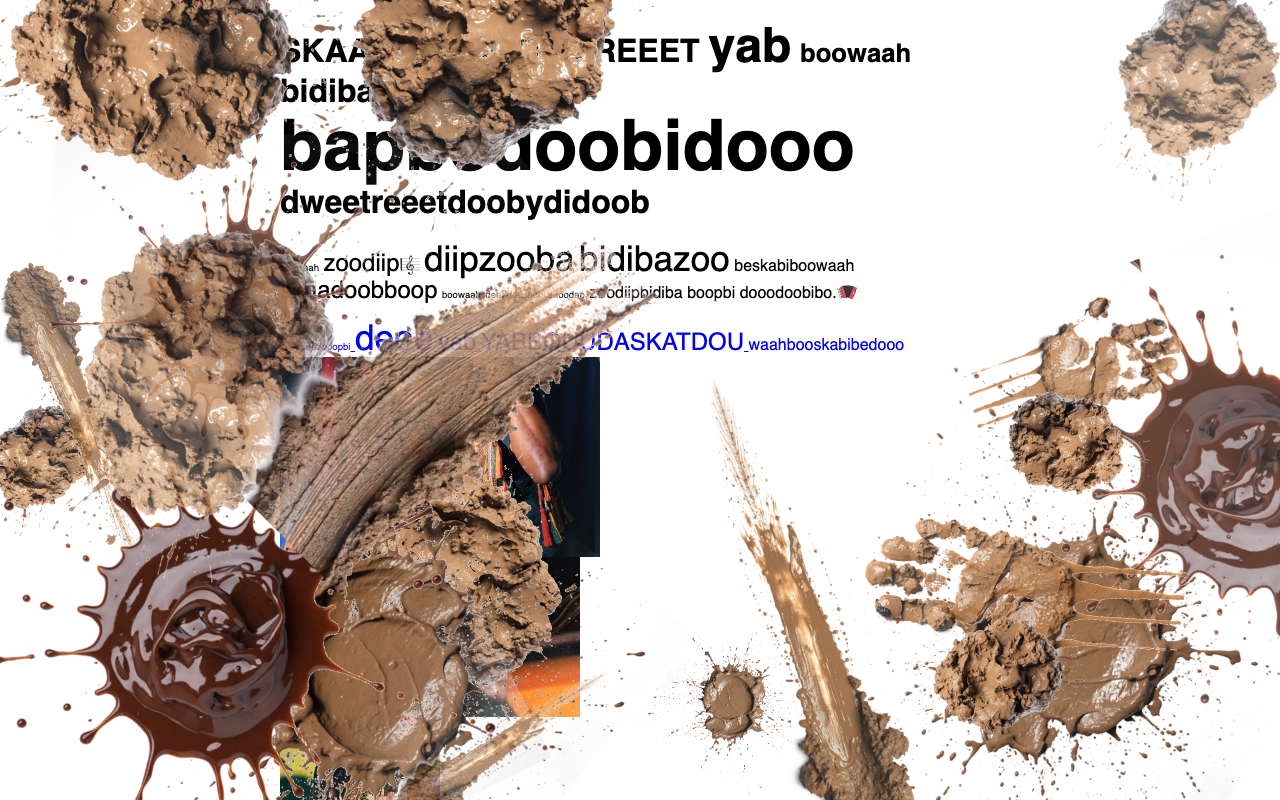
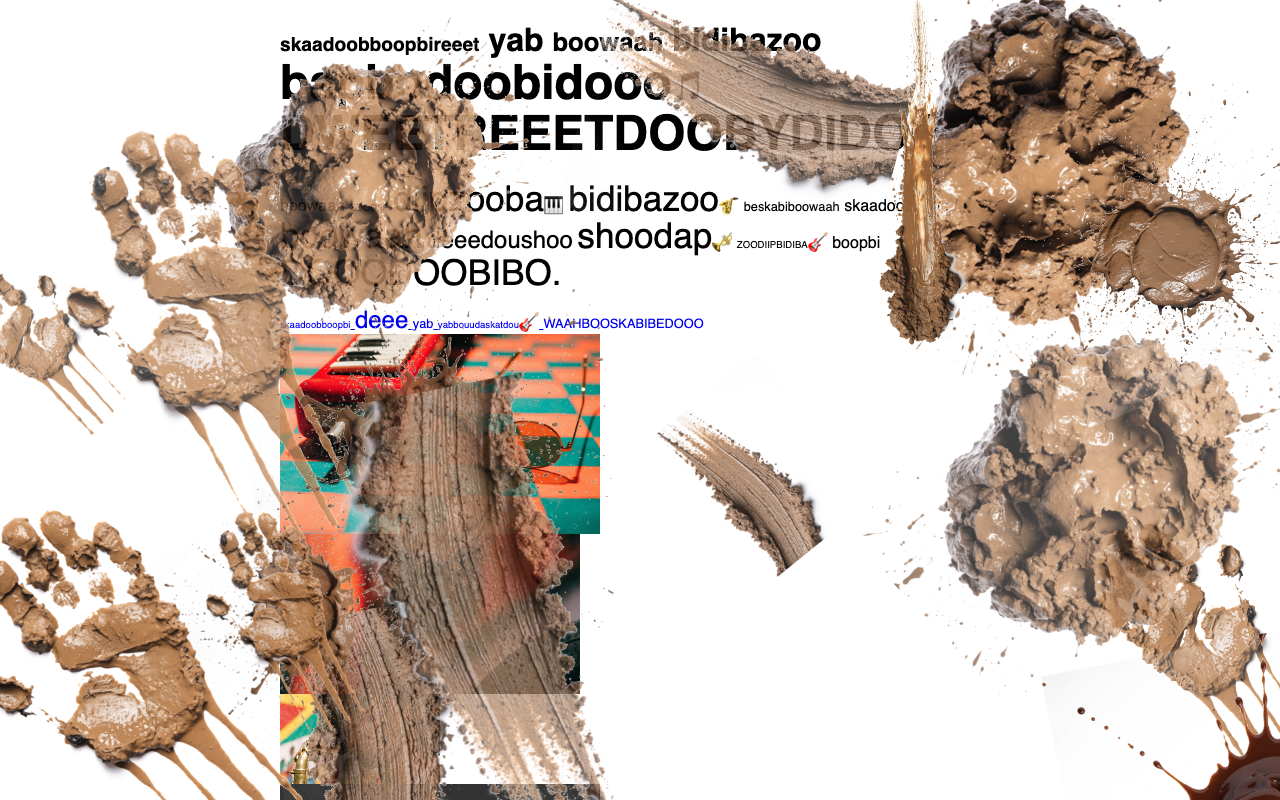
Images: +10 East/SE-Asian jazz-ska musicians (dreadlocks); 57 total
Better ethnic balance per Tristan: 36 dark + 21 white/asian. Using t-shirt/shirt
wording avoided recraft's NSFW filter (0 rejects this batch).

diff --git a/src/images-manifest.js b/src/images-manifest.js
@@ -46,5 +46,15 @@ globalThis.ScaternetImagesList = [
   "img-44.jpg",
   "img-45.jpg",
   "img-46.jpg",
-  "img-47.jpg"
+  "img-47.jpg",
+  "img-48.jpg",
+  "img-49.jpg",
+  "img-50.jpg",
+  "img-51.jpg",
+  "img-52.jpg",
+  "img-53.jpg",
+  "img-54.jpg",
+  "img-55.jpg",
+  "img-56.jpg",
+  "img-57.jpg"
 ];
